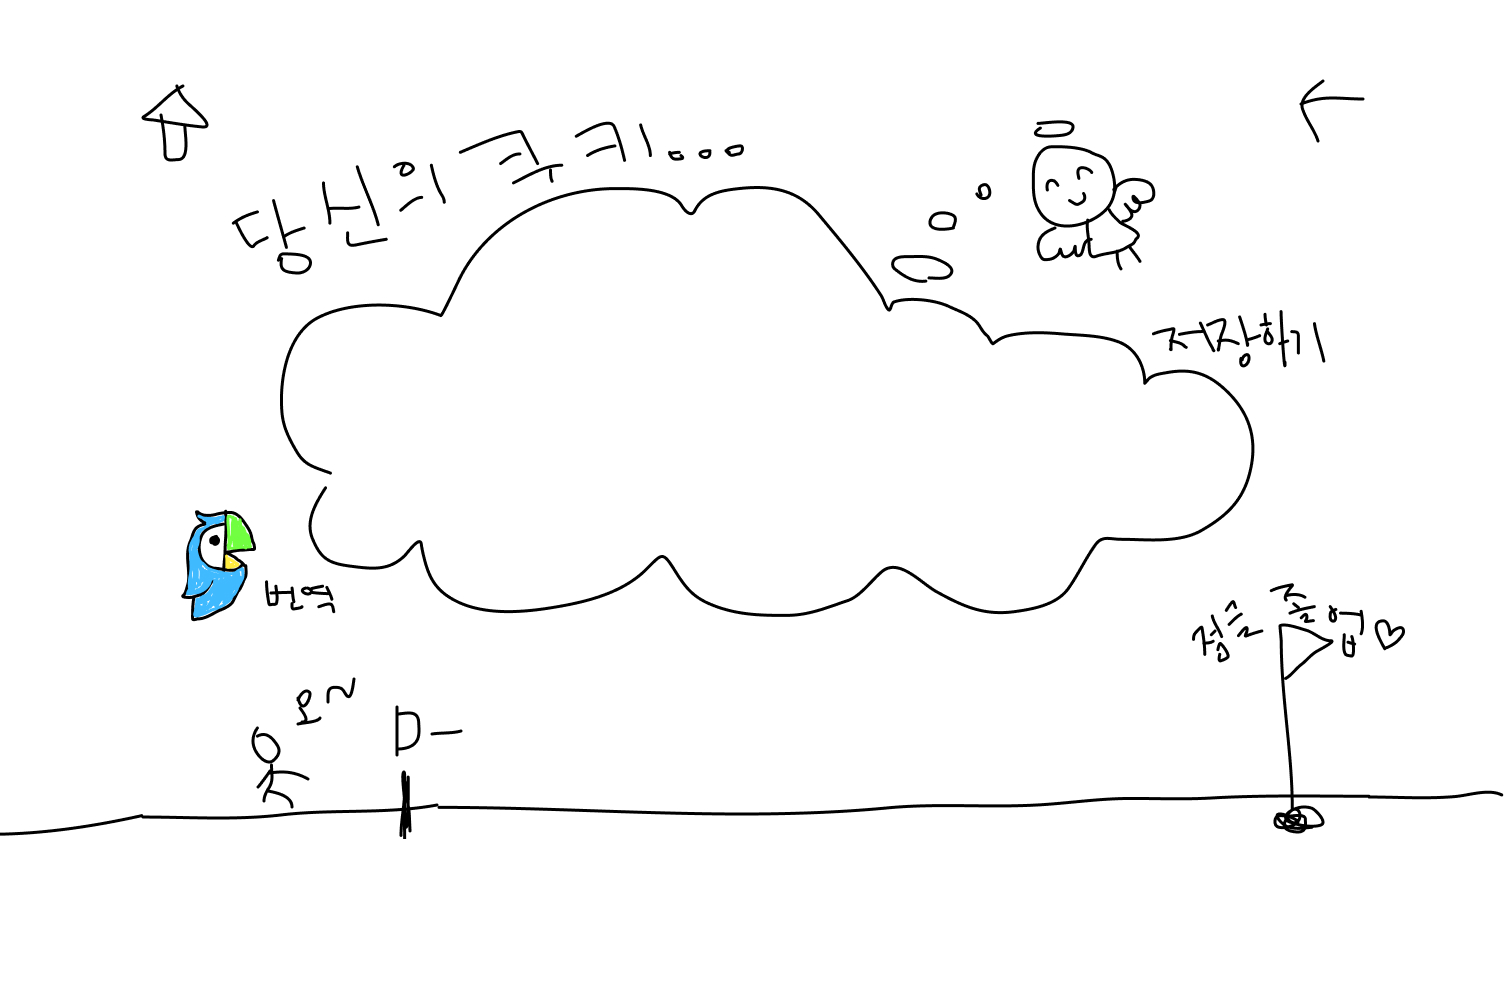
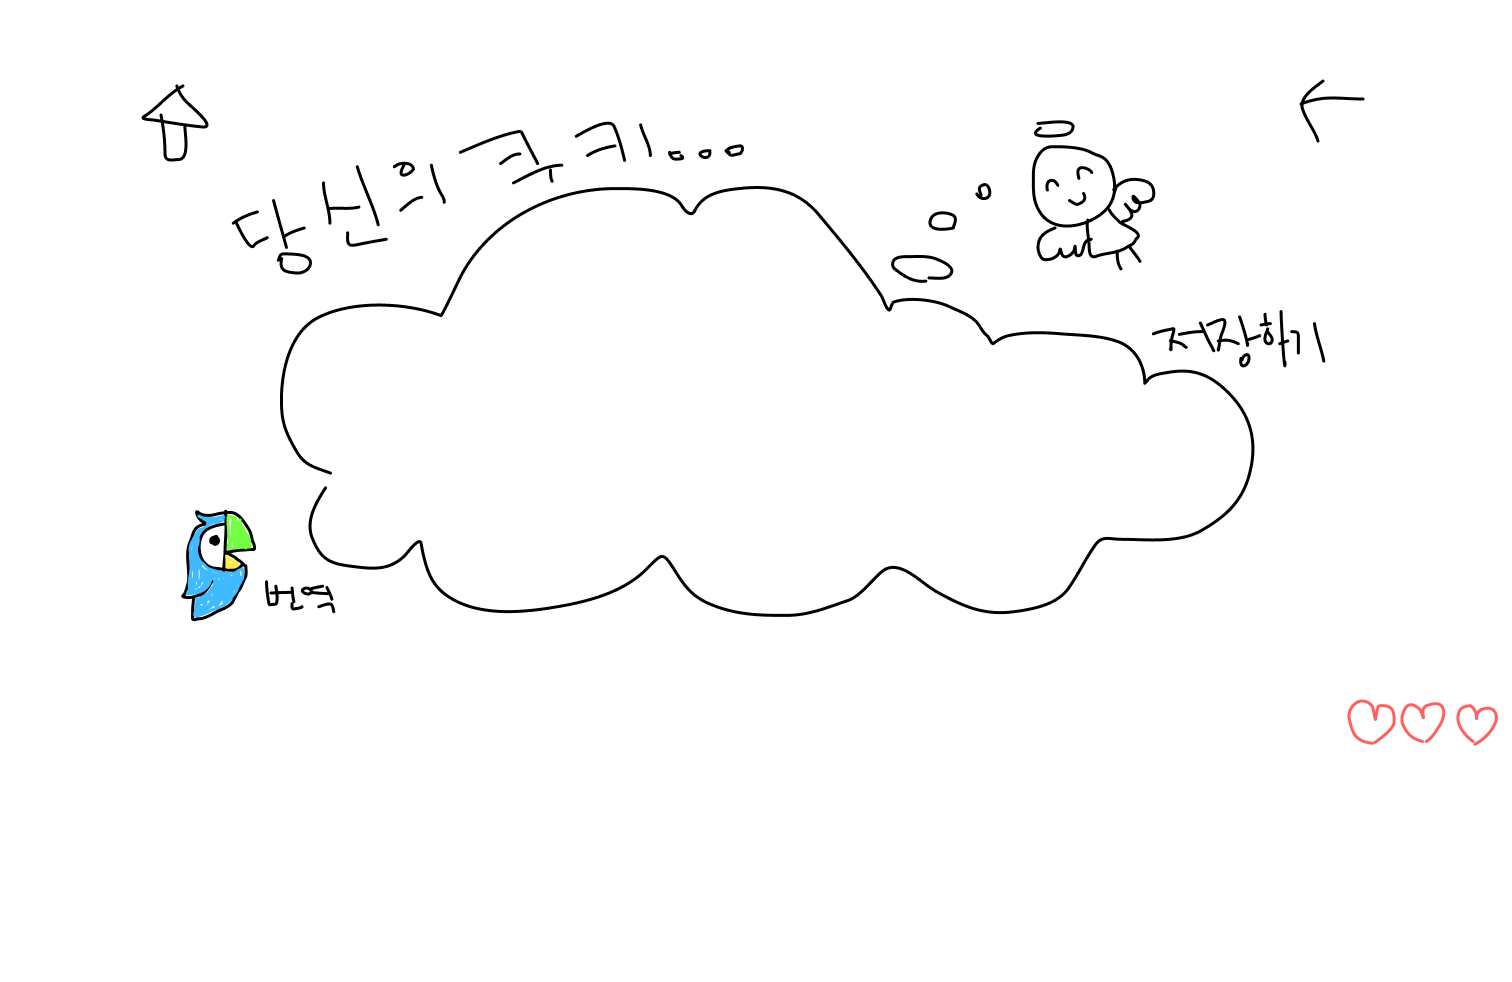
마지막 병합 전

diff --git a/templates/main.html b/templates/main.html
@@ -35,7 +35,12 @@
         
         <script>
             $(document).ready(function(){
-                fortune_text();
+                fortune_check();
+                
+                if ("{{session[userid]}}" != ""){
+                    location.href="/myPage";
+                }
+
 
                 $("#fortune_save").on('click', function(){
                     let myToken = $.cookie('myToken')
@@ -53,7 +58,7 @@
                     
                 });
             })
-
+        
             function fortune_text() {
                 $('#fortune_text').empty();
                 $.ajax({
@@ -77,34 +82,57 @@
                 })
             }
 
-            // function papago() {
-            //     let fortune_eng = $("#fortune_text").text()
-            //     console.log(fortune_eng);
-                
-            //     $.ajax({
-            //         type: "POST",
-            //         url: "/translate",
-            //         data: {fortune_eng: fortune_eng},
-            //         success: function(response){
-            //             if (response["result"] == "success"){
-            //                 alert(response["translated_text"]);
-            //                 // let temp_html = `<div class="fortune_text id="fortune_text_eng">${response["translated_text"]}</div>`
-            //                 // $('#fortune_text_eng').append(temp_html);
-            //             } else {
-            //                 alert('번역 실패!');
-            //             }
-            //         }
-            //     })
-            // }
+            //포춘쿠키 오늘 열었는지 체크
+            function fortune_check(){
+                $.ajax({
+                    type: "GET",
+                    url: "/fortune_check",
+                    data: {},
+                    success: function(response){
+                        if(response.result == 'success'){
+                            //안열었으면 현재 시간 DB 저장 및 fortune_text() 실행
+                            fortune_text();
+                        }else{
+                            //열었으면 logined 로 이동
+                            alert(response.msg);
+                            location.href="/logined";
+                        }
+                    }
+                });
+            }
 
             function go_back() {
                 location.href="/logined";
             }
+            $(document).ready(function(){
+                d_day();
+            });
+            function d_day(){
+                $.ajax({
+                    type: "GET",
+                    url:"/d_day",
+                    data:{},
+                    success: function(response) {
+                        var d_day = response.d_day;
+                        $("#d_day_text").text(d_day);
+                        //총 일수
+                        var all_day = response.all_day;
+                        //진행률
+                        //25
+                        var day_per = ((all_day - d_day) / all_day) * 100;
+                        $('#d_day_img').css('margin-left', day_per + '%');
 
+                        //사진 (baby_0.PNG ~ baby_9.PNG)
+                        //25 / 10 = 2.5 -> 소숫점 버림 Math.floor() -> 2 -> /static/d_day/baby_2.png
+                        var imgId = Math.floor(day_per / 10);
+                        $('#d_day_img').attr('src', '/static/d_day/baby_' + imgId + '.jpg');
+                    }
+                })
+            }
         </script>
     </head>
     <body>
-        <img src="https://s3.us-west-2.amazonaws.com/secure.notion-static.com/b7a12106-685f-4283-8fb9-c90c2608c40a/5_main.jpg?X-Amz-Algorithm=AWS4-HMAC-SHA256&X-Amz-Content-Sha256=UNSIGNED-PAYLOAD&X-Amz-Credential=AKIAT73L2G45EIPT3X45%2F20220330%2Fus-west-2%2Fs3%2Faws4_request&X-Amz-Date=20220330T075029Z&X-Amz-Expires=86400&X-Amz-Signature=65809a480e450a23f8ff27bb3a370dd2520ac6f6ebf7950f189f3bf1ef17a180&X-Amz-SignedHeaders=host&response-content-disposition=filename%20%3D%225_main.jpg%22&x-id=GetObject" id="bg" alt="">
+        <img src="https://s3.us-west-2.amazonaws.com/secure.notion-static.com/05828ddc-b3d7-4756-aa2d-c069f8c720c3/5_main.jpg?X-Amz-Algorithm=AWS4-HMAC-SHA256&X-Amz-Content-Sha256=UNSIGNED-PAYLOAD&X-Amz-Credential=AKIAT73L2G45EIPT3X45%2F20220330%2Fus-west-2%2Fs3%2Faws4_request&X-Amz-Date=20220330T185738Z&X-Amz-Expires=86400&X-Amz-Signature=70e08e92d302b78b364c5818bb51b3503433a3840823b98074ff0ed374528229&X-Amz-SignedHeaders=host&response-content-disposition=filename%20%3D%225_main.jpg%22&x-id=GetObject" id="bg" alt="">
 
         <button type="button" class="btn home_btn main" onClick="location.href='/'"></button>
         <button type="button" class="btn go_back_btn main" onClick="go_back()"></button>
@@ -112,6 +140,13 @@
         
         <button type="button" class="btn save_btn" id="fortune_save"></button>
 
+        <div class="jungle_baby">
+            <img id="start_img" alt="" src="/static/d_day/start.jpg" height="50px;">
+            <div class="jungle_life_timeline">
+                <img id="d_day_img" alt="" src="/static/d_day/baby_0.jpg" height="50px;" >D-day<font id="d_day_text"></font>
+            </div>
+            <img id="end_img" alt="" src="/static/d_day/end.jpg" height="50px;">
+        </div>
         <!-- papago api 구현 후 활성화 -->
         <!-- <button type="button" class="btn translate_btn" id="translate_btn" onClick="papago()">papago 테스트</button>
         <div class="fortune_text" id="fortune_text_eng"></div> -->

diff --git a/templates/home.html b/templates/home.html
@@ -3,8 +3,8 @@
 
 <head>
     <!-- Required meta tags -->
-    <meta charset="utf-8">
-    <meta name="viewport" content="width=device-width, initial-scale=1, shrink-to-fit=no">
+        <meta charset="utf-8">
+        <meta name="viewport" content="width=device-width, initial-scale=1, shrink-to-fit=no">
 
     <!-- Bootstrap CSS -->
     <link rel="stylesheet" href="https://cdn.jsdelivr.net/npm/bootstrap@4.6.0/dist/css/bootstrap.min.css"
@@ -30,9 +30,8 @@
 
 
     <title>오늘의 포춘쿠키🥠 | home</title>
-    
-</head>
 
+</head>
 <body>
     <img src="https://s3.us-west-2.amazonaws.com/secure.notion-static.com/f63f02ec-2541-4f50-9ab7-bca20623520f/0_home.jpg?X-Amz-Algorithm=AWS4-HMAC-SHA256&X-Amz-Content-Sha256=UNSIGNED-PAYLOAD&X-Amz-Credential=AKIAT73L2G45EIPT3X45%2F20220330%2Fus-west-2%2Fs3%2Faws4_request&X-Amz-Date=20220330T065722Z&X-Amz-Expires=86400&X-Amz-Signature=391c32acb8b7b58f68c91b85dc55ebccc7ec22247acae09896d49a45603a44e6&X-Amz-SignedHeaders=host&response-content-disposition=filename%20%3D%220_home.jpg%22&x-id=GetObject" id="bg" alt="">
     <button type="button" class="btn play_btn home" onClick="location.href='/welcome'"></button>

diff --git a/static/css/my_style.css b/static/css/my_style.css
@@ -7,6 +7,7 @@
     z-index: 0;
     width: 1920px;
     height: 1080px;
+    top: 0;
 }
 
 .fortune_box {
@@ -201,4 +202,53 @@ button.btn.home_btn.signIn {
 .login, .signIn {
     font-family: 'Do Hyeon', sans-serif;
     font-size: 35px;
+}
+
+li {
+    position: relative;
+    z-index: 1;
+    left: 700px;
+    top: 230px;
+    max-width: 600px;
+    white-space: nowrap;
+    overflow: hidden;
+    text-overflow: ellipsis;
+}
+
+.jungle_baby{
+    position: fixed;
+    z-index: 10;
+    width: 1920px;
+    display: inline-block;
+    border-bottom: solid 40px;
+    bottom: 0;
+}
+
+.jungle_life_timeline{
+    display: inline-block;
+    bottom: 50px;
+    left: 200px;
+    right: 200px;
+    position: fixed;
+    font-size:40px;
+}
+
+#start_img, #end_img{
+    position: fixed;
+    bottom: 50px;
+    width: 200px;
+    height: 100px;
+}
+
+#start_img{
+    left:0;
+}
+
+#end_img{
+    right:0;
+}
+
+#d_day_img{
+    width: 200px;
+    height: 100px;
 }

diff --git a/templates/myPage.html b/templates/myPage.html
@@ -37,7 +37,6 @@
         
     </head>
     <body>
-        <div>마이페이지 - 저장한 목록이 나옴</div>
         {% for my in my_fortune %}
         <li> {{my}}</li>
         {% endfor %}

diff --git a/app.py b/app.py
@@ -26,6 +26,7 @@ def welcome():
    return render_template('welcome.html')
 
 SECRET_KEY = 'apple'
+app.config['SECRET_KEY'] = 'galhg2ilh6safbkj'
 
 @app.route('/login_btn')
 def login_btn():
@@ -160,6 +161,46 @@ def save():
 #       # fortuneInfo = {‘fortune’ : fortune}
 #       # db.saveFortune.insert_one(fortuneInfo)
 #       return jsonify({"result" : "fail", "Error_Code": Error_Code})
+
+
+#디데이 계산
+@app.route('/d_day')
+def d_day():
+   # today = datetime.date(2022, 6, 2)
+   #오늘
+   today = datetime.date.today()
+   #시작일
+   start_date = datetime.date(2022, 3, 28)
+   #종료일
+   end_date = datetime.date(2022, 8, 11)
+   #디데이
+   d_day = end_date - today
+   #총 일수
+   all_day = end_date - start_date
+   return jsonify({'d_day' : d_day.days, 'all_day' : all_day.days})
+
+@app.route('/fortune_check', methods=['GET'])
+def fortune_check():
+   #로그인 아이디
+   token_receive = request.cookies.get('myToken')
+   payload = jwt.decode(token_receive, SECRET_KEY, algorithms=['HS256'])
+   userid = payload['id']
+   #오늘 날짜 YYYY-MM-DD 형식
+   today = datetime.date.today().isoformat()
+   openinfo = {'user_id' : userid, 'open_date' : today}
+   #오늘 오픈했는지 체크
+   result = db.openinfo.find_one(openinfo)
+   
+   if result is not None:
+      #오늘 오픈 했으면
+      return jsonify({'result' : 'fail', 'msg' : '너는 오늘 이미 포춘쿠키를 열었따'})
+   
+   else:
+      #오늘 오픈 안했으면
+      #오픈 날짜 저장
+      db.openinfo.insert_one(openinfo)
+      return jsonify({'result' : 'success'})
+
       
 
 if __name__ == '__main__':
